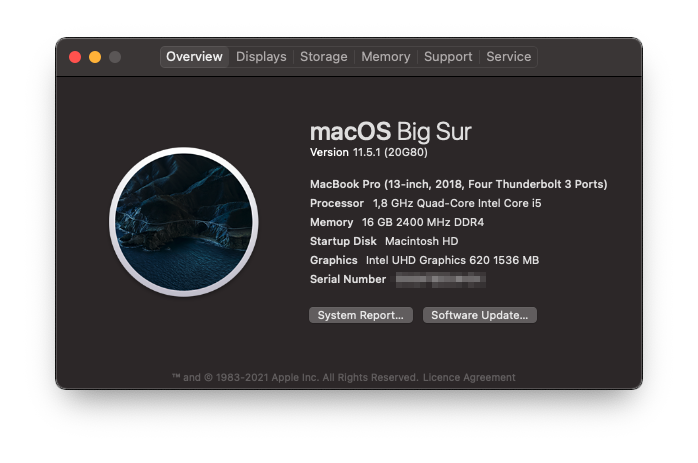
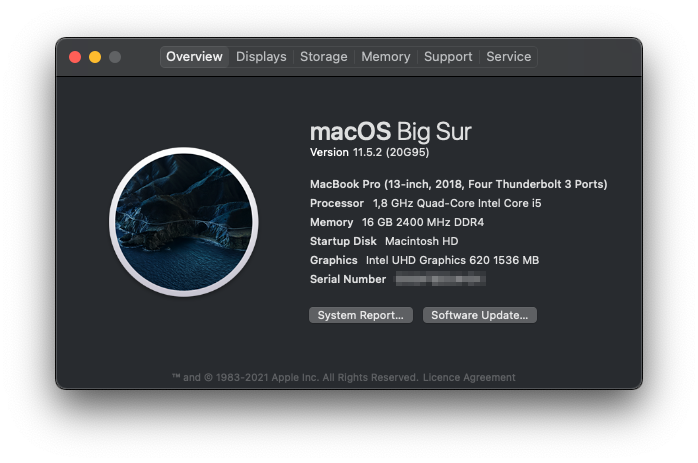
[README.md] Updated to Bug Sure 11.5.2 (20G95)

diff --git a/README.md b/README.md
@@ -11,7 +11,7 @@
 | **Storage**    | `Western Digital SN750 Black NVMe 512GB`  |
 | **Audio Code** | `Realtek ALC295 (ALC3254)`                |
 | **WiFi Card**  | `BCM943602BAED aka DW1830`                |
-| **OS**         | `macOS Big Sur 11.5.1 (20G80)`            |
+| **OS**         | `macOS Big Sur 11.5.2 (20G95)`            |
 | **BIOS**       | `v1.18`                                   |
 
 
